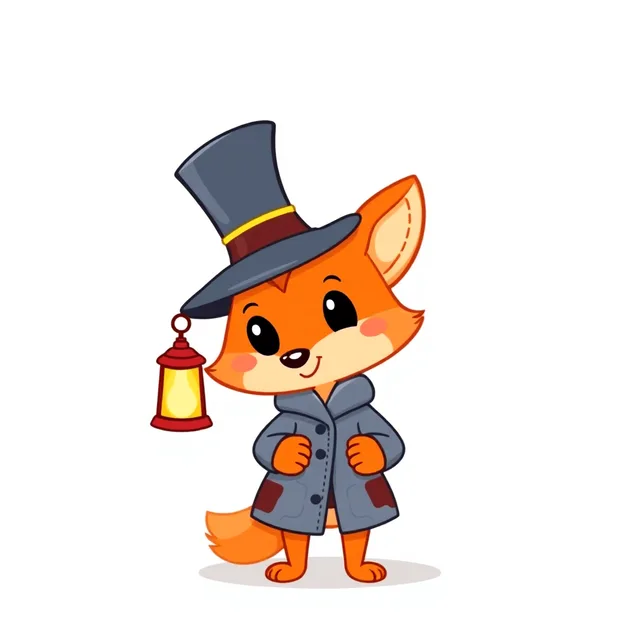
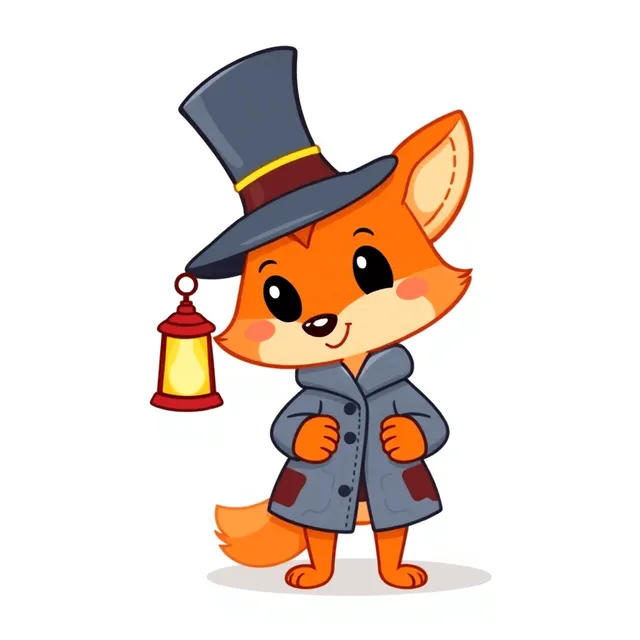
fix: tighter Dodger crop, Grimy card title
Dodger's art is cropped so the fox fills about the same share of his
card as Wiggles and Grimy. Grimy's card now reads "Sam's Garbage Truck
Themed Packet".

Changed region(s): [[0.2188, 0.0625, 0.7812, 0.9375]]

diff --git a/app/page.tsx b/app/page.tsx
@@ -85,7 +85,7 @@ const CHARACTERS = [
   },
   {
     name: "Grimy",
-    packet: "Sam's Garbage Truck Adventure Day",
+    packet: "Sam's Garbage Truck Themed Packet",
     src: "/landing/characters/grimy.webp",
     alt: "Grimy, a bright green cartoon garbage truck with big friendly eyes, wearing a yellow hard hat",
   },
